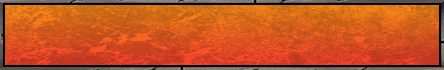
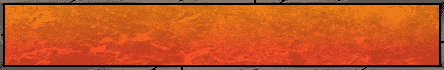
account registration half ui + added compresed png

diff --git a/rpg-frontend/src/components/FrameLoginComponent.tsx b/rpg-frontend/src/components/FrameLoginComponent.tsx
@@ -1,0 +1,41 @@
+import React from "react";
+import InputComponent from "../InputComponent";
+
+const FrameLoginComponent = () => {
+
+    const frameImage = '/figmaExports/FrameLogin.png';
+
+return(
+            <div className="frame-box" style={{ position: 'relative', width: '450px', height: 'auto', marginLeft: "20%", marginTop: "60px"}}>
+                <img src={frameImage} alt="Login Frame" draggable="false" style={{ width: '100%', height: 'auto' }} />
+
+                <h1 style={{
+                    position: 'absolute',
+                    top: '10px',
+                    left: '50%',
+                    transform: 'translateX(-50%)',
+                    width: '100%',
+                    textAlign: 'center',
+                    color: 'black',
+                    fontSize: '21px'
+                }}>
+                    ACCOUNT REGISTRATION
+                </h1>
+
+                <div style={{
+                    position: 'absolute',
+                    top: "110px",
+                    left: '53%',
+                    transform: 'translateX(-50%)',
+                    width: '90%'
+                }}>
+                    <InputComponent text="Nickname"/>
+                    <InputComponent text="Email"/>
+                    <InputComponent text="Password"/>
+
+                </div>
+            </div>
+    );
+};
+
+export default FrameLoginComponent;

diff --git a/rpg-frontend/src/InputComponent.tsx b/rpg-frontend/src/InputComponent.tsx
@@ -1,9 +1,15 @@
 import React, { useState } from 'react';
 import './InputComponent.css';
-import ImageButtons from "./components/ClassSelectComponent";
 import Layout from "./Layout";
 
-const InputComponent = () => {
+interface InputComponentProps {
+    // onClick: () => void;
+    text?: string;
+    // width?: string;
+    // height?: string;
+}
+
+const InputComponent: React.FC<InputComponentProps> = ({  text = "Default Text"}) => {
     const [isFocused, setIsFocused] = useState(false);
 
     const handleFocus = () => {
@@ -26,7 +32,8 @@ const InputComponent = () => {
     return (
         <Layout showLogo={false}>
         <div className="input-container">
-            <label htmlFor="inputField">Nickname</label>
+
+            <label htmlFor="inputField">{text}</label>
             <div
                 className="input-background"
                 style={{ backgroundImage: `url(${backgroundImageUrl})`, transition: '0.8s' }}

diff --git a/rpg-frontend/src/routes/AppRouter.tsx b/rpg-frontend/src/routes/AppRouter.tsx
@@ -4,6 +4,7 @@ import { BrowserRouter as Router, Routes, Route } from 'react-router-dom';
 import InputComponent from "../InputComponent";
 import Game from "../Game";
 import ClassSelectPage from "../pages/ClassSelectPage";
+import LoginPage from "../pages/LoginPage";
 
 const AppRouter: React.FC = () => {
     // const { isAuthenticated } = useAuth();
@@ -14,6 +15,7 @@ const AppRouter: React.FC = () => {
                 <Route path="/ceva" element={<Game />} />
                 <Route path="/test" element={<InputComponent />} />
                 <Route path="/class" element={<ClassSelectPage />} />
+                <Route path="/login" element={<LoginPage />} />
 
                 {/*<Route path="/" element={<Login />} />*/}
                 {/*<Route path="/class-select" element={<ClassSelect />} />*/}

diff --git a/rpg-frontend/src/InputComponent.css b/rpg-frontend/src/InputComponent.css
@@ -1,12 +1,16 @@
 .input-container {
     transition: background-image 0.4s;
+    /*background-color: red;*/
+    margin-bottom: 18px;
+    position: relative;
 }
 
 .input-container label {
-    font-weight: 600;
+    position: absolute;
+    top: -15px;
+    left: 25px;
     color: #CCCAC4;
-    margin-left: 25px;
-    margin-top: 25px;
+    font-weight: 600;
 }
 
 .input-background {

diff --git a/rpg-frontend/src/pages/LoginPage.tsx b/rpg-frontend/src/pages/LoginPage.tsx
@@ -1,11 +1,12 @@
 import React from "react";
+import FrameLoginComponent from "../components/FrameLoginComponent";
 
 
 const LoginPage = () => {
 
     return(
         <div>
-            
+            <FrameLoginComponent></FrameLoginComponent>
         </div>
     );
 };

diff --git a/rpg-frontend/src/components/ClassSelectComponent.tsx b/rpg-frontend/src/components/ClassSelectComponent.tsx
@@ -1,5 +1,5 @@
 import React, {useState} from 'react';
-import './ImageButtons.css';
+import './ClassSelectComponent.css';
 
 interface ImageButtonsProps {
     onSelectClass: (className: string) => void;

diff --git a/rpg-frontend/src/components/HeroEquipmentComponent.tsx b/rpg-frontend/src/components/HeroEquipmentComponent.tsx
@@ -1,0 +1,13 @@
+import React from "react";
+
+
+const HeroEquipmentComponent = () => {
+
+    return(
+        <div>
+
+        </div>
+    );
+};
+
+export default HeroEquipmentComponent;
